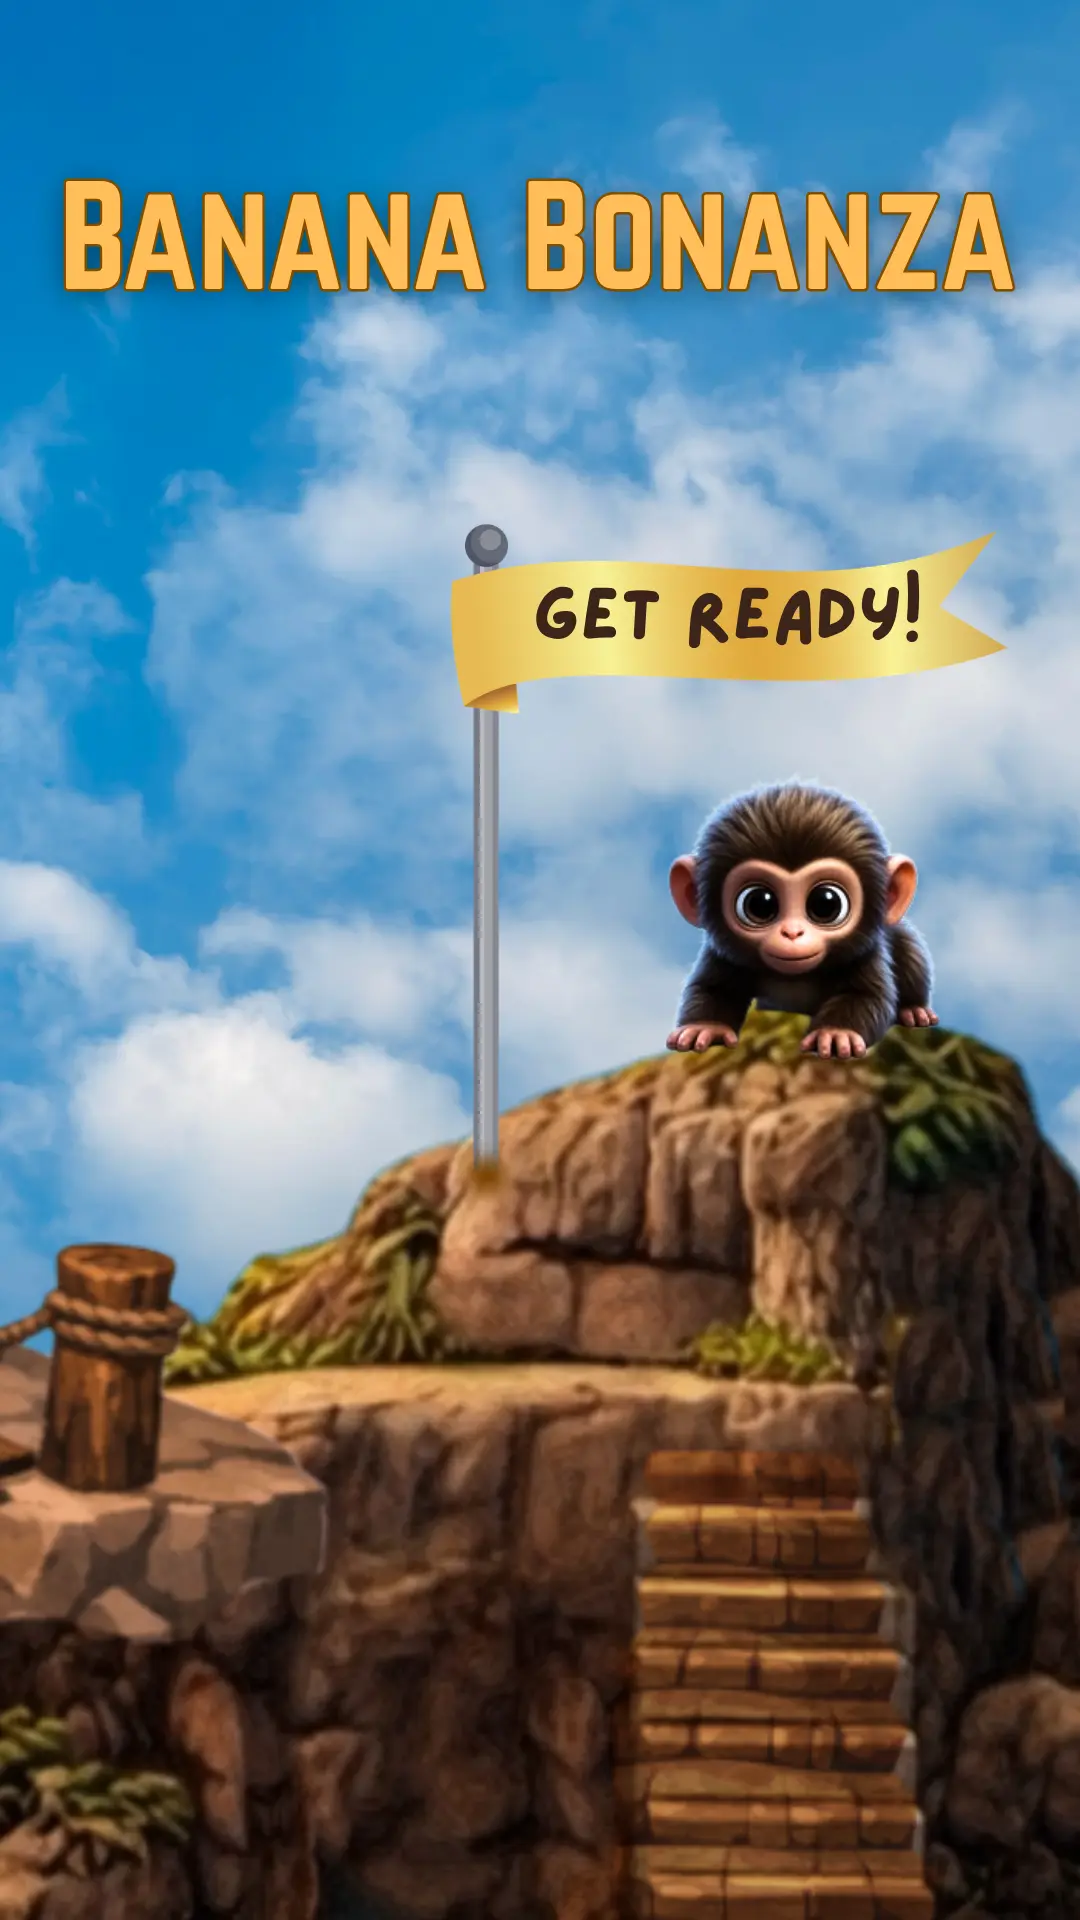
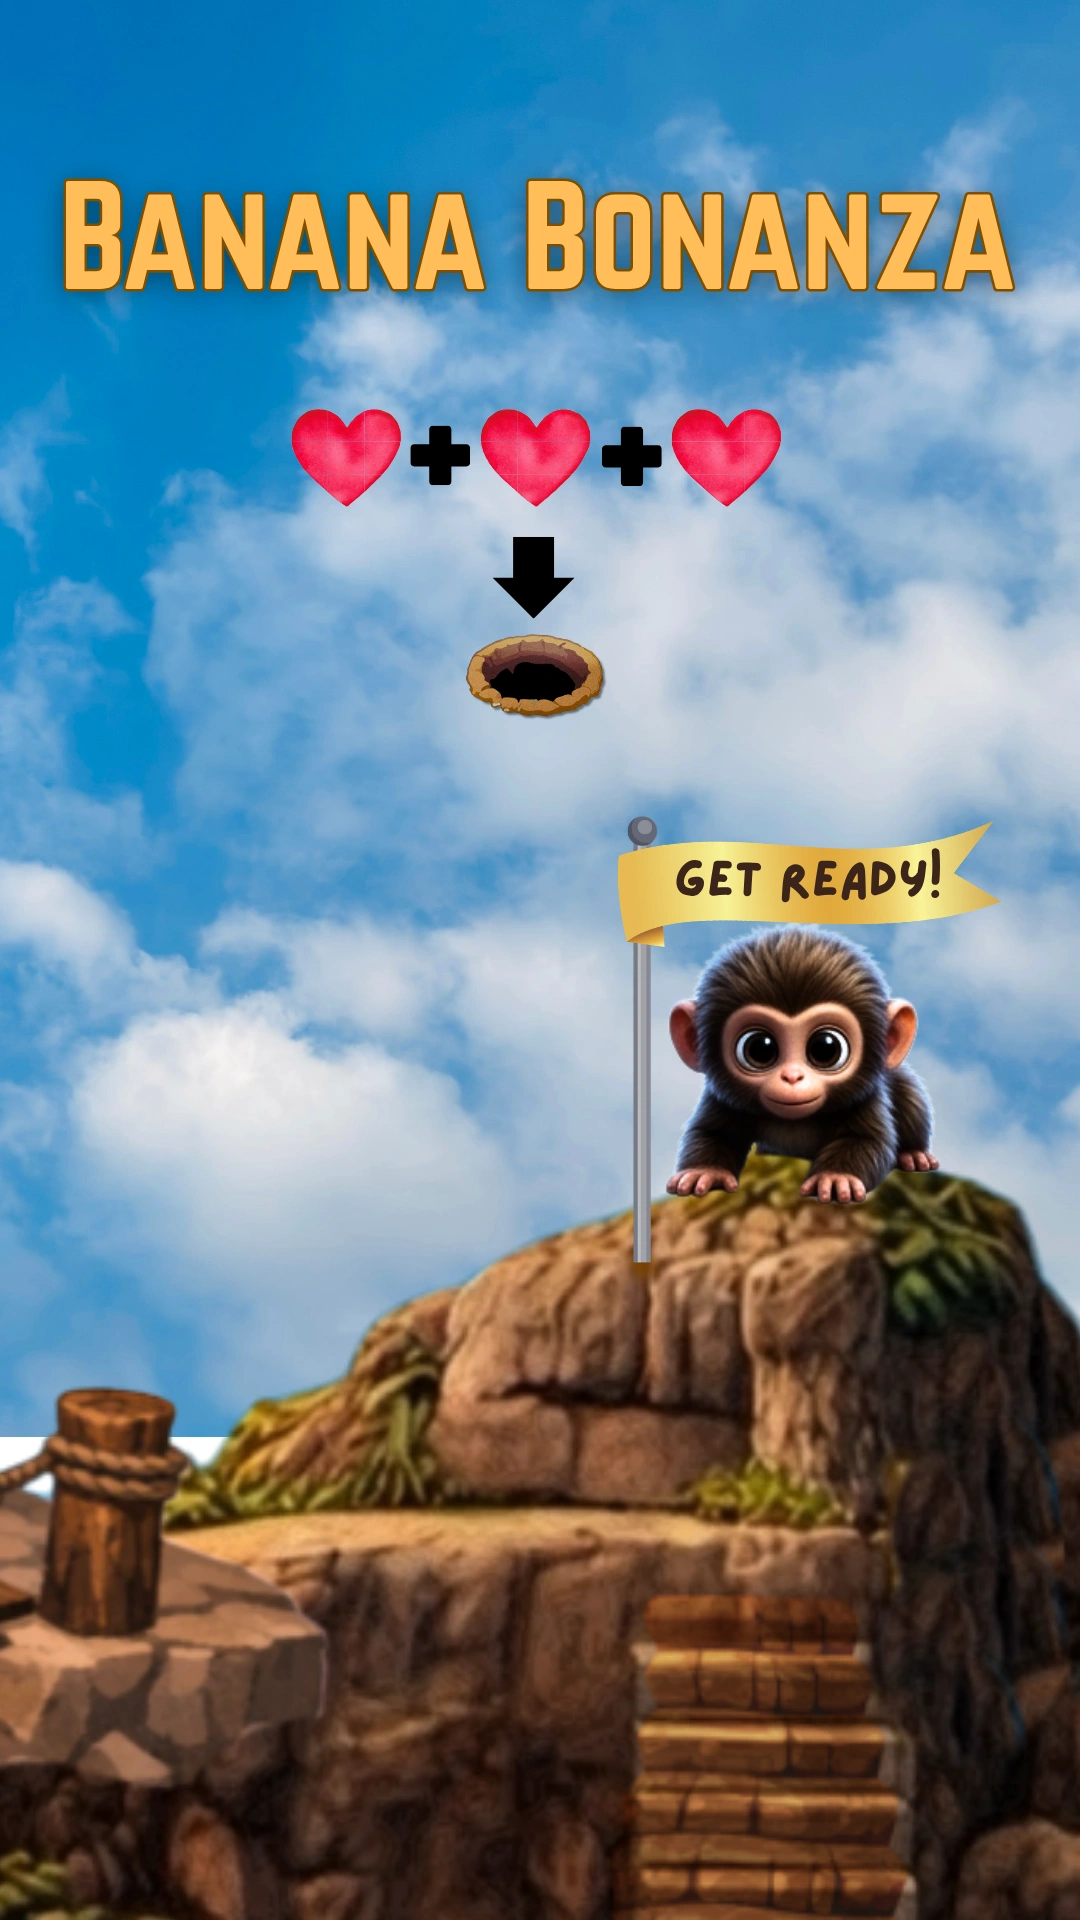
New scene card

diff --git a/js/main.js b/js/main.js
@@ -14,7 +14,7 @@ import {
   HAT_TRICK_BONUS,
   SWIPE_THRESHOLD,
   HOME_NODE,
-  BANANA_NODE_IDS,
+  // BANANA_NODE_IDS,
   MUTE_BUTTON
 } from "./config.js";
 
@@ -109,49 +109,6 @@ Object.defineProperties(window, {
   }
 });
 
-// ======================================================
-// NODE GRAPH
-// ======================================================
-
-// const nodes = {
-//   N1: { id: "N1", x: 920, y: 248, neighbors: ["N11", "N2"], tags: ["ladderExit"] },
-//   N2: { id: "N2", x: 736, y: 260, neighbors: ["N1", "N3"], tags: ["banana"] },
-//   N3: { id: "N3", x: 545, y: 302, neighbors: ["N2", "N4"], tags: [] },
-//   N4: { id: "N4", x: 323, y: 266, neighbors: ["N3", "N10", "N5"], tags: [] },
-//   N5: { id: "N5", x: 216, y: 271, neighbors: ["N4", "N6"], tags: ["ladderExit"] },
-//   N6: { id: "N6", x: 206, y: 515, neighbors: ["N5", "N22", "N7"], tags: ["ladderExit"] },
-//   N7: { id: "N7", x: 370, y: 512, neighbors: ["N10", "N6", "N18"], tags: ["banana"] },
-//   N10: { id: "N10", x: 393, y: 380, neighbors: ["N4", "N7"], tags: [] },
-//   N11: { id: "N11", x: 950, y: 467, neighbors: ["N1", "N24", "N12"], tags: ["ladderExit"] },
-//   N12: { id: "N12", x: 730, y: 465, neighbors: ["N23", "N11"], tags: ["banana"] },
-//   N13: { id: "N13", x: 713, y: 1139, neighbors: ["N15", "N37","N29"], tags: ["banana"] },
-//   N14: { id: "N14", x: 1008, y: 1151, neighbors: ["N29"], tags: ["portal"] },
-//   N15: { id: "N15", x: 522, y: 1168, neighbors: ["N16", "N39", "N13", "N17"], tags: ["ladderExit", "banana"] },
-//   N16: { id: "N16", x: 522, y: 1433, neighbors: ["N15", "N35"], tags: ["ladderExit", "banana"] },
-//   N17: { id: "N17", x: 549, y: 1056, neighbors: ["N15", "N18"], tags: ["banana"] },
-//   N18: { id: "N18", x: 515, y: 775, neighbors: ["N23", "N17", "N32", "N7"], tags: ["ladderExit", "banana"] },
-//   N19: { id: "N19", x: -1, y: 787, neighbors: ["N20"], tags: ["portal"] },
-//   N20: { id: "N20", x: 132, y: 800, neighbors: ["N19", "N32", "N33"], tags: ["ladderExit", "banana"] },
-//   N22: { id: "N22", x: 4, y: 513, neighbors: ["N6"], tags: ["portal"] },
-//   N23: { id: "N23", x: 724, y: 736, neighbors: ["N24", "N12", "N37", "N18"], tags: [] },
-//   N24: { id: "N24", x: 957, y: 740, neighbors: ["N11", "N25", "N23"], tags: ["ladderExit", "banana"] },
-//   N25: { id: "N25", x: 1015, y: 740, neighbors: ["N24"], tags: ["portal"] },
-//   N26: { id: "N26", x: 925, y: 1401, neighbors: [], tags: ["portal"] },
-//   N28: { id: "N28", x: 199, y: 692, neighbors: ["N32"], tags: ["portal"] },
-//   N29: { id: "N29", x: 832, y: 1136, neighbors: ["N13", "N30", "N14"], tags: [] },
-//   N33: { id: "N33", x: 130, y: 1170, neighbors: ["N34", "N20", "N39"], tags: [] },
-//   N34: { id: "N34", x: 69, y: 1439, neighbors: ["N35", "N33"], tags: [] },
-//   N30: { id: "N30", x: 832, y: 1040, neighbors: ["N29"], tags: ["portal"] },
-//   N32: { id: "N32", x: 199, y: 793, neighbors: ["N18", "N20", "N28"], tags: [] },
-//   N35: { id: "N35", x: 306, y: 1428, neighbors: ["N31", "N16", "N34", "N36"], tags: [] },
-//   N31: { id: "N31", x: 312, y: 1319, neighbors: ["N35"], tags: ["portal"] },
-//   N36: { id: "N36", x: 302, y: 1478, neighbors: ["N35"], tags: ["portal"] },
-//   N37: { id: "N37", x: 728, y: 871, neighbors: ["N13", "N23", "N38"], tags: [] },
-//   N38: { id: "N38", x: 863, y: 871, neighbors: ["N37"], tags: [] },
-//   N39: { id: "N39", x: 280, y: 1152, neighbors: ["N33", "N15", "N40"], tags: [] },
-//   N40: { id: "N40", x: 280, y: 1002, neighbors: ["N39"], tags: [] }
-// };
-
 const nodes = {
   N1: { id: "N1", x: 957, y: 220, neighbors: ["N11", "N2"], tags: ["ladderExit"] },
   N2: { id: "N2", x: 782, y: 320, neighbors: ["N1", "N3", "N12"], tags: ["banana"] },
@@ -213,28 +170,6 @@ const mainSecretPortals = {
   N35: "N26" // or whatever your hidden-hole entry node is
 };
 
-// function resolveMainPortal(actor) {
-//   const nodeId = actor?.currentNode;
-//   if (!nodeId) return null;
-
-//   // secret room first
-//   if (state.scene === "main" && state.acceptance >= 3 && mainSecretPortals[nodeId]) {
-//     return { type: "secret", to: mainSecretPortals[nodeId] };
-//   }
-
-//   // cave portals
-//   if (mainCavePortals[nodeId]) {
-//     return { type: "cave", to: mainCavePortals[nodeId] };
-//   }
-
-//   // edge wraps
-//   if (mainWrapPortals[nodeId]) {
-//     return { type: "wrap", to: mainWrapPortals[nodeId] };
-//   }
-
-//   return null;
-// }
-
 function resolveMainPortal(nodeId) {
   if (!nodeId) return null;
 
@@ -261,8 +196,6 @@ const bossPortals = {
   M0C: "M1C",
   M1C: "M0C"
 };
-
-const MAIN_HEART_NODE_IDS = ["C", "Q", "J"];
 
 const SECRET_REWARDS = {
   main: {
@@ -460,13 +393,6 @@ function getBananaNodeIds() {
   return getNodeIdsByTag(nodes, "banana");
 }
 
-// function checkShrubBonus() {
-//   if (!state.player) return;
-
-//   if (!state.shrubBonusesFound) {
-//     state.shrubBonusesFound = {};
-//   }
-
 function checkSecretReward() {
   if (!state.player) return;
 //console.log("SECRET CHECK", state.scene, state.player.currentNode);
@@ -499,44 +425,6 @@ function checkSecretReward() {
 
   sounds.score?.play().catch(() => {});
 }
-// function drawBananaBunchPopup() {
-//   const popup = state.bananaBunchPopup;
-//   if (!popup) return;
-
-//   const node = getCurrentNodeMap()[popup.nodeId];
-//   if (!node) return;
-
-//   const img = spriteStore.bananaBunch;
-//   const t = popup.time / popup.duration;
-//   const rise = t * 40;
-//   const alpha = 1 - t;
-
-//   ctx.save();
-//   ctx.globalAlpha = alpha;
-
-//   if (img && img.complete && img.naturalWidth > 0) {
-//     const w = 84;
-//     const h = w * (img.naturalHeight / img.naturalWidth);
-
-//     ctx.drawImage(
-//       img,
-//       node.x - w / 2,
-//       node.y - 90 - rise,
-//       w,
-//       h
-//     );
-//   }
-
-//   ctx.font = "bold 34px Arial";
-//   ctx.textAlign = "center";
-//   ctx.fillStyle = "#ffe066";
-//   ctx.strokeStyle = "rgba(0,0,0,0.45)";
-//   ctx.lineWidth = 4;
-//   ctx.strokeText(`+${popup.value} 🍌`, node.x, node.y - 110 - rise);
-//   ctx.fillText(`+${popup.value} 🍌`, node.x, node.y - 110 - rise);
-
-//   ctx.restore();
-// }
 
 function drawSecretRewardSparkles() {
   const sceneRewards = SECRET_REWARDS[state.scene];
@@ -662,6 +550,54 @@ function drawSecretRewardPopups() {
       }
     );
   }
+}
+
+function drawHeartProgressPopup() {
+  const p = state.heartProgressPopup;
+  if (!p) return;
+
+  const t = p.time / p.duration;
+  const alpha = 1 - t;
+  const rise = t * 70;
+
+  const x = canvas.width / 2;
+  const y = canvas.height * 0.34 - rise;
+
+  ctx.save();
+  ctx.globalAlpha = alpha;
+
+  // soft mist / fog backdrop
+  const grad = ctx.createRadialGradient(x, y, 20, x, y, 170);
+  grad.addColorStop(0, "rgba(255,255,255,0.92)");
+  grad.addColorStop(0.35, "rgba(255,255,255,0.55)");
+  grad.addColorStop(0.75, "rgba(255,255,255,0.18)");
+  grad.addColorStop(1, "rgba(255,255,255,0)");
+
+  ctx.fillStyle = grad;
+  ctx.beginPath();
+  ctx.arc(x, y, 170, 0, Math.PI * 2);
+  ctx.fill();
+
+  // subtle secondary haze
+  ctx.fillStyle = "rgba(255,255,255,0.16)";
+  ctx.beginPath();
+  ctx.ellipse(x, y + 10, 140, 55, 0, 0, Math.PI * 2);
+  ctx.fill();
+
+  // text
+  ctx.font = "bold 72px Arial";
+  ctx.textAlign = "center";
+  ctx.textBaseline = "middle";
+  ctx.lineWidth = 8;
+  ctx.strokeStyle = "rgba(255,255,255,0.95)";
+  ctx.fillStyle = "#ff4f8b";
+
+  const text = `❤ ${p.count}/3`;
+
+  ctx.strokeText(text, x, y);
+  ctx.fillText(text, x, y);
+
+  ctx.restore();
 }
 
 function getBossScale(x, y) {
@@ -1429,16 +1365,16 @@ function drawLevelIntroOverlay() {
       ctx.restore();
     }
 
-    ctx.save();
-    ctx.textAlign = "center";
-    ctx.textBaseline = "middle";
-    ctx.font = "bold 48px Arial";
-    ctx.lineWidth = 6;
-    ctx.strokeStyle = "rgba(0,0,0,0.45)";
-    ctx.fillStyle = "#fff";
-    ctx.strokeText(`Level ${li.level || state.level || 1}`, canvas.width / 2, 110);
-    ctx.fillText(`Level ${li.level || state.level || 1}`, canvas.width / 2, 110);
-    ctx.restore();
+    // ctx.save();
+    // ctx.textAlign = "center";
+    // ctx.textBaseline = "middle";
+    // ctx.font = "bold 48px Arial";
+    // ctx.lineWidth = 6;
+    // ctx.strokeStyle = "rgba(0,0,0,0.45)";
+    // ctx.fillStyle = "#fff";
+    // ctx.strokeText(`Level ${li.level || state.level || 1}`, canvas.width / 2, 110);
+    // ctx.fillText(`Level ${li.level || state.level || 1}`, canvas.width / 2, 110);
+    // ctx.restore();
 
     return;
   }
@@ -1703,12 +1639,22 @@ function updateHeartCollection() {
 
     heart.collected = true;
 
-    state.acceptance = Math.min(3, (state.acceptance || 0) + 1);
+    const collected = state.fieldHearts.filter(h => h.collected).length;
+    state.acceptance = Math.min(3, collected);
+
     state.heartCooldown = 1.0;
     state.lastHeartNodeId = heart.nodeId;
     state.lastHeartPickupTime = performance.now() / 1000;
 
     sounds.pickup?.play().catch(() => {});
+
+    if (sounds.ahh) {
+      try {
+        sounds.ahh.pause();
+        sounds.ahh.currentTime = 0;
+        sounds.ahh.play().catch(() => {});
+      } catch (err) {}
+    }
 
     state.hearts.push({
       x: state.player.x,
@@ -1716,21 +1662,15 @@ function updateHeartCollection() {
       t: 0
     });
 
-    showHeartPickupPopup(
-      state.player.x,
-      state.player.y,
-      state.acceptance
-    );
+    showHeartProgressPopup(state.acceptance);
+
+    if (collected >= 3) {
+      state.mainSecretUnlocked = true;
+    }
 
     break;
   }
-
-  const collected = state.fieldHearts.filter(h => h.collected).length;
-  if (collected >= 3) {
-    state.mainSecretUnlocked = true;
-  }
 }
-
 
 function hasFlyingHeart() {
   return !!state.flyingHearts?.length;
@@ -2180,19 +2120,11 @@ function drawHearts() {
   });
 }
 
-function spawnMainFieldHearts() {
-  state.fieldHearts = MAIN_HEART_NODE_IDS.map(nodeId => ({
-    nodeId,
-    collected: false,
-    pulse: Math.random() * Math.PI * 2
-  }));
-}
-
 const CAVE_REVEAL_DURATION = 1.0;
 const SCENE_WIN_DURATION = 3.0;
 const SCENE_INTRO_TIMING = {
-  cardDuration: 1.35,
-  overlayDuration: 1.25,
+  cardDuration: 2.35,
+  overlayDuration: 2.0,
   overlayAlpha: 0.75,
   spotlightRadius: 115,
   spotlightSoftness: 110
@@ -2347,6 +2279,14 @@ function showHeartPickupPopup(x, y, count) {
     "#ff7aa8",
     1.9
   );
+}
+
+function showHeartProgressPopup(count) {
+  state.heartProgressPopup = {
+    count,
+    time: 0,
+    duration: 2.5
+  };
 }
 
 function drawNodeLabels() {
@@ -2541,6 +2481,10 @@ function handlePortalTravel(actor) {
 
   const portal = resolveMainPortal(actor.currentNode);
   if (!portal) return;
+
+  if (portal.type === "secret" && actor !== state.player) {
+    return;
+  }
 
   const nodeMap = getCurrentNodeMap();
   const dest = nodeMap[portal.to];
@@ -3792,6 +3736,13 @@ function update(dt) {
     state.player.invuln = Math.max(0, state.player.invuln - dt);
   }
 
+  if (state.heartProgressPopup) {
+    state.heartProgressPopup.time += dt;
+    if (state.heartProgressPopup.time >= state.heartProgressPopup.duration) {
+      state.heartProgressPopup = null;
+    }
+  }
+
   updateZookeeper(dt);
   updateZookeeper2(dt);
   updateHeartThrowing(dt);
@@ -4030,6 +3981,7 @@ if (state.scene === "boss") {
   drawMainEndingOverlay();
   drawSecretRewardSparkles();
   drawSecretRewardPopups();
+  drawHeartProgressPopup();
   drawHudOverlay();
   drawCavePreview();
   drawOverlay();

diff --git a/js/state.js b/js/state.js
@@ -17,10 +17,6 @@ export function createInitialState() {
     banana: null,
     hand: null,
     hearts: [],
-    mainSecretUnlocked: false,
-    mainSecretEntered: false,
-    mainMotherPose: "sit", // "sit" | "hug"
-    mainMotherTimer: 0,
     particles: [],
     catchAnim: null,
     zookeeper: { anim: "idle", frame: 0, time: 0, didThrowSound: false },
@@ -49,6 +45,7 @@ export function createInitialState() {
     secretRewardsFound: {},
     secretRewardPopups: [],
     bananaTimestamps: [],
+    heartProgressPopup: null,
   };
 }
 

diff --git a/js/assets.js b/js/assets.js
@@ -124,7 +124,8 @@ export function loadSounds(state) {
   sounds.panic.volume = 0.75;
 
   sounds.ahh = new Audio("assets/ahh.mp3");
-  sounds.ahh.volume = 0.75;
+  sounds.ahh.volume = 0.15;
+  sounds.ahh.playbackRate = 2.4;
 
   sounds.victory = new Audio("assets/victory.mp3");
   sounds.victory.volume = 0.75;

diff --git a/js/config.js b/js/config.js
@@ -14,7 +14,6 @@ export const HAT_TRICK_COUNT = 3;
 export const HAT_TRICK_BONUS = 10; // bananas or points
 
 export const HOME_NODE = "N1";
-export const BANANA_NODE_IDS = ["D", "E", "F", "G", "J", "K", "M", "L", "N", "P"];
 
 export const MUTE_BUTTON = {
   x: 0,
